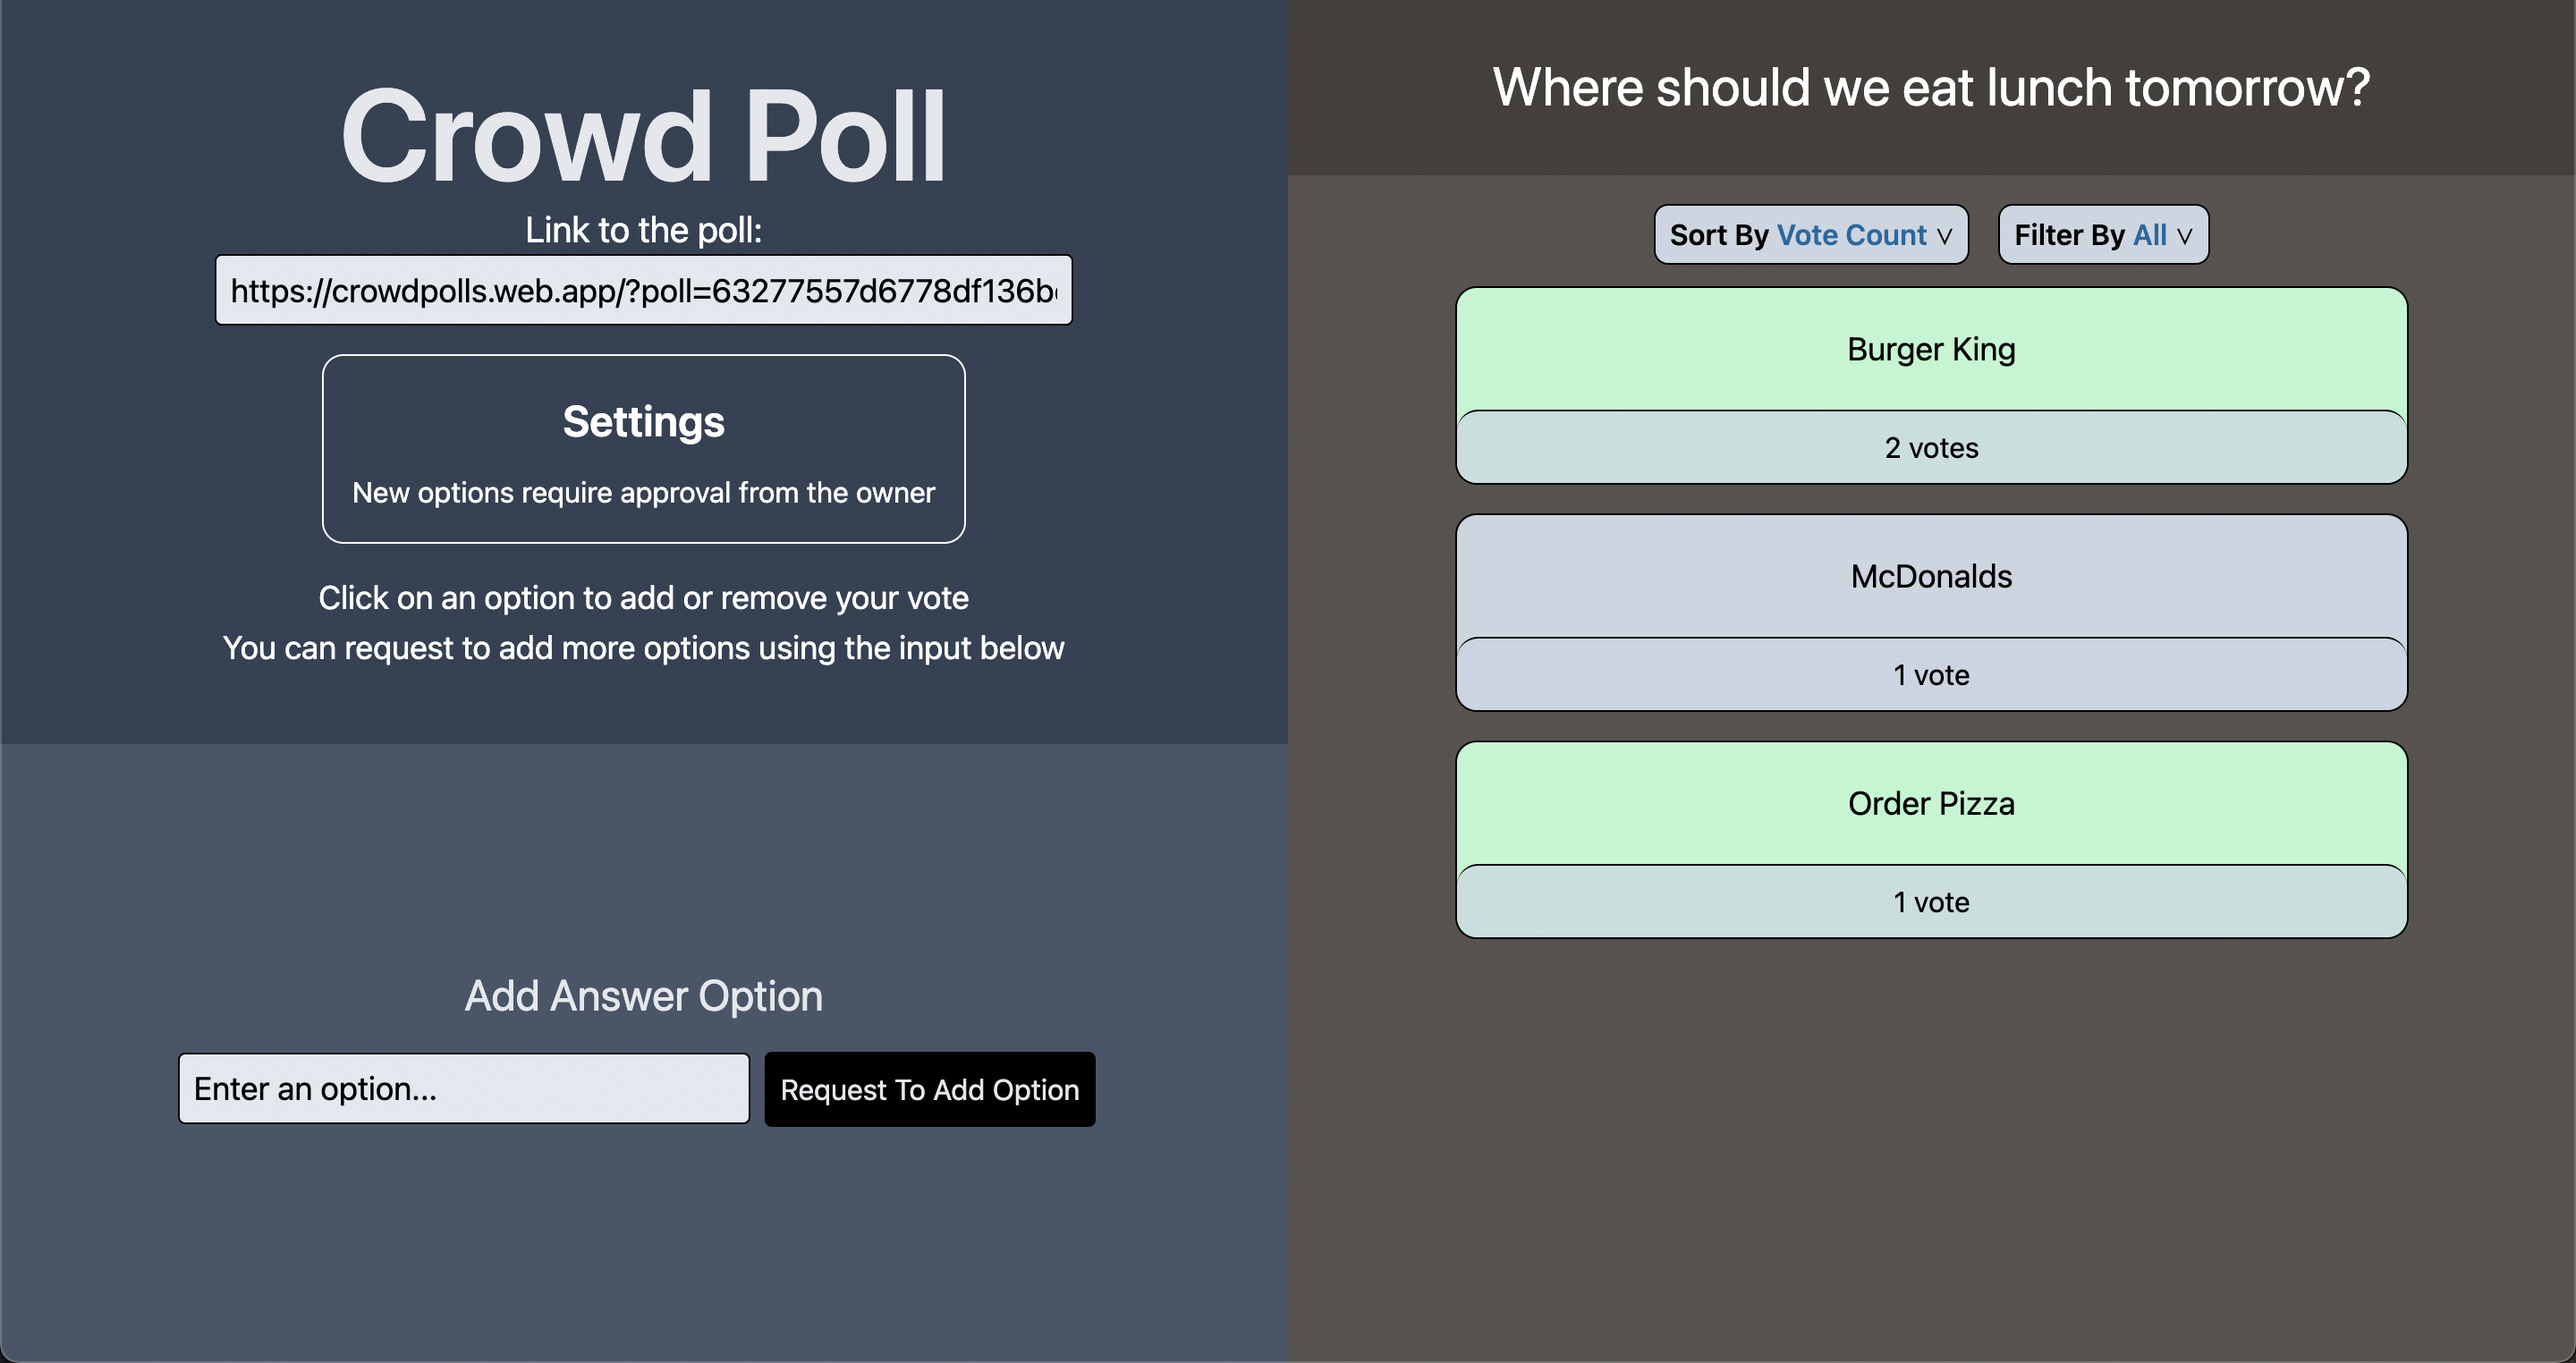
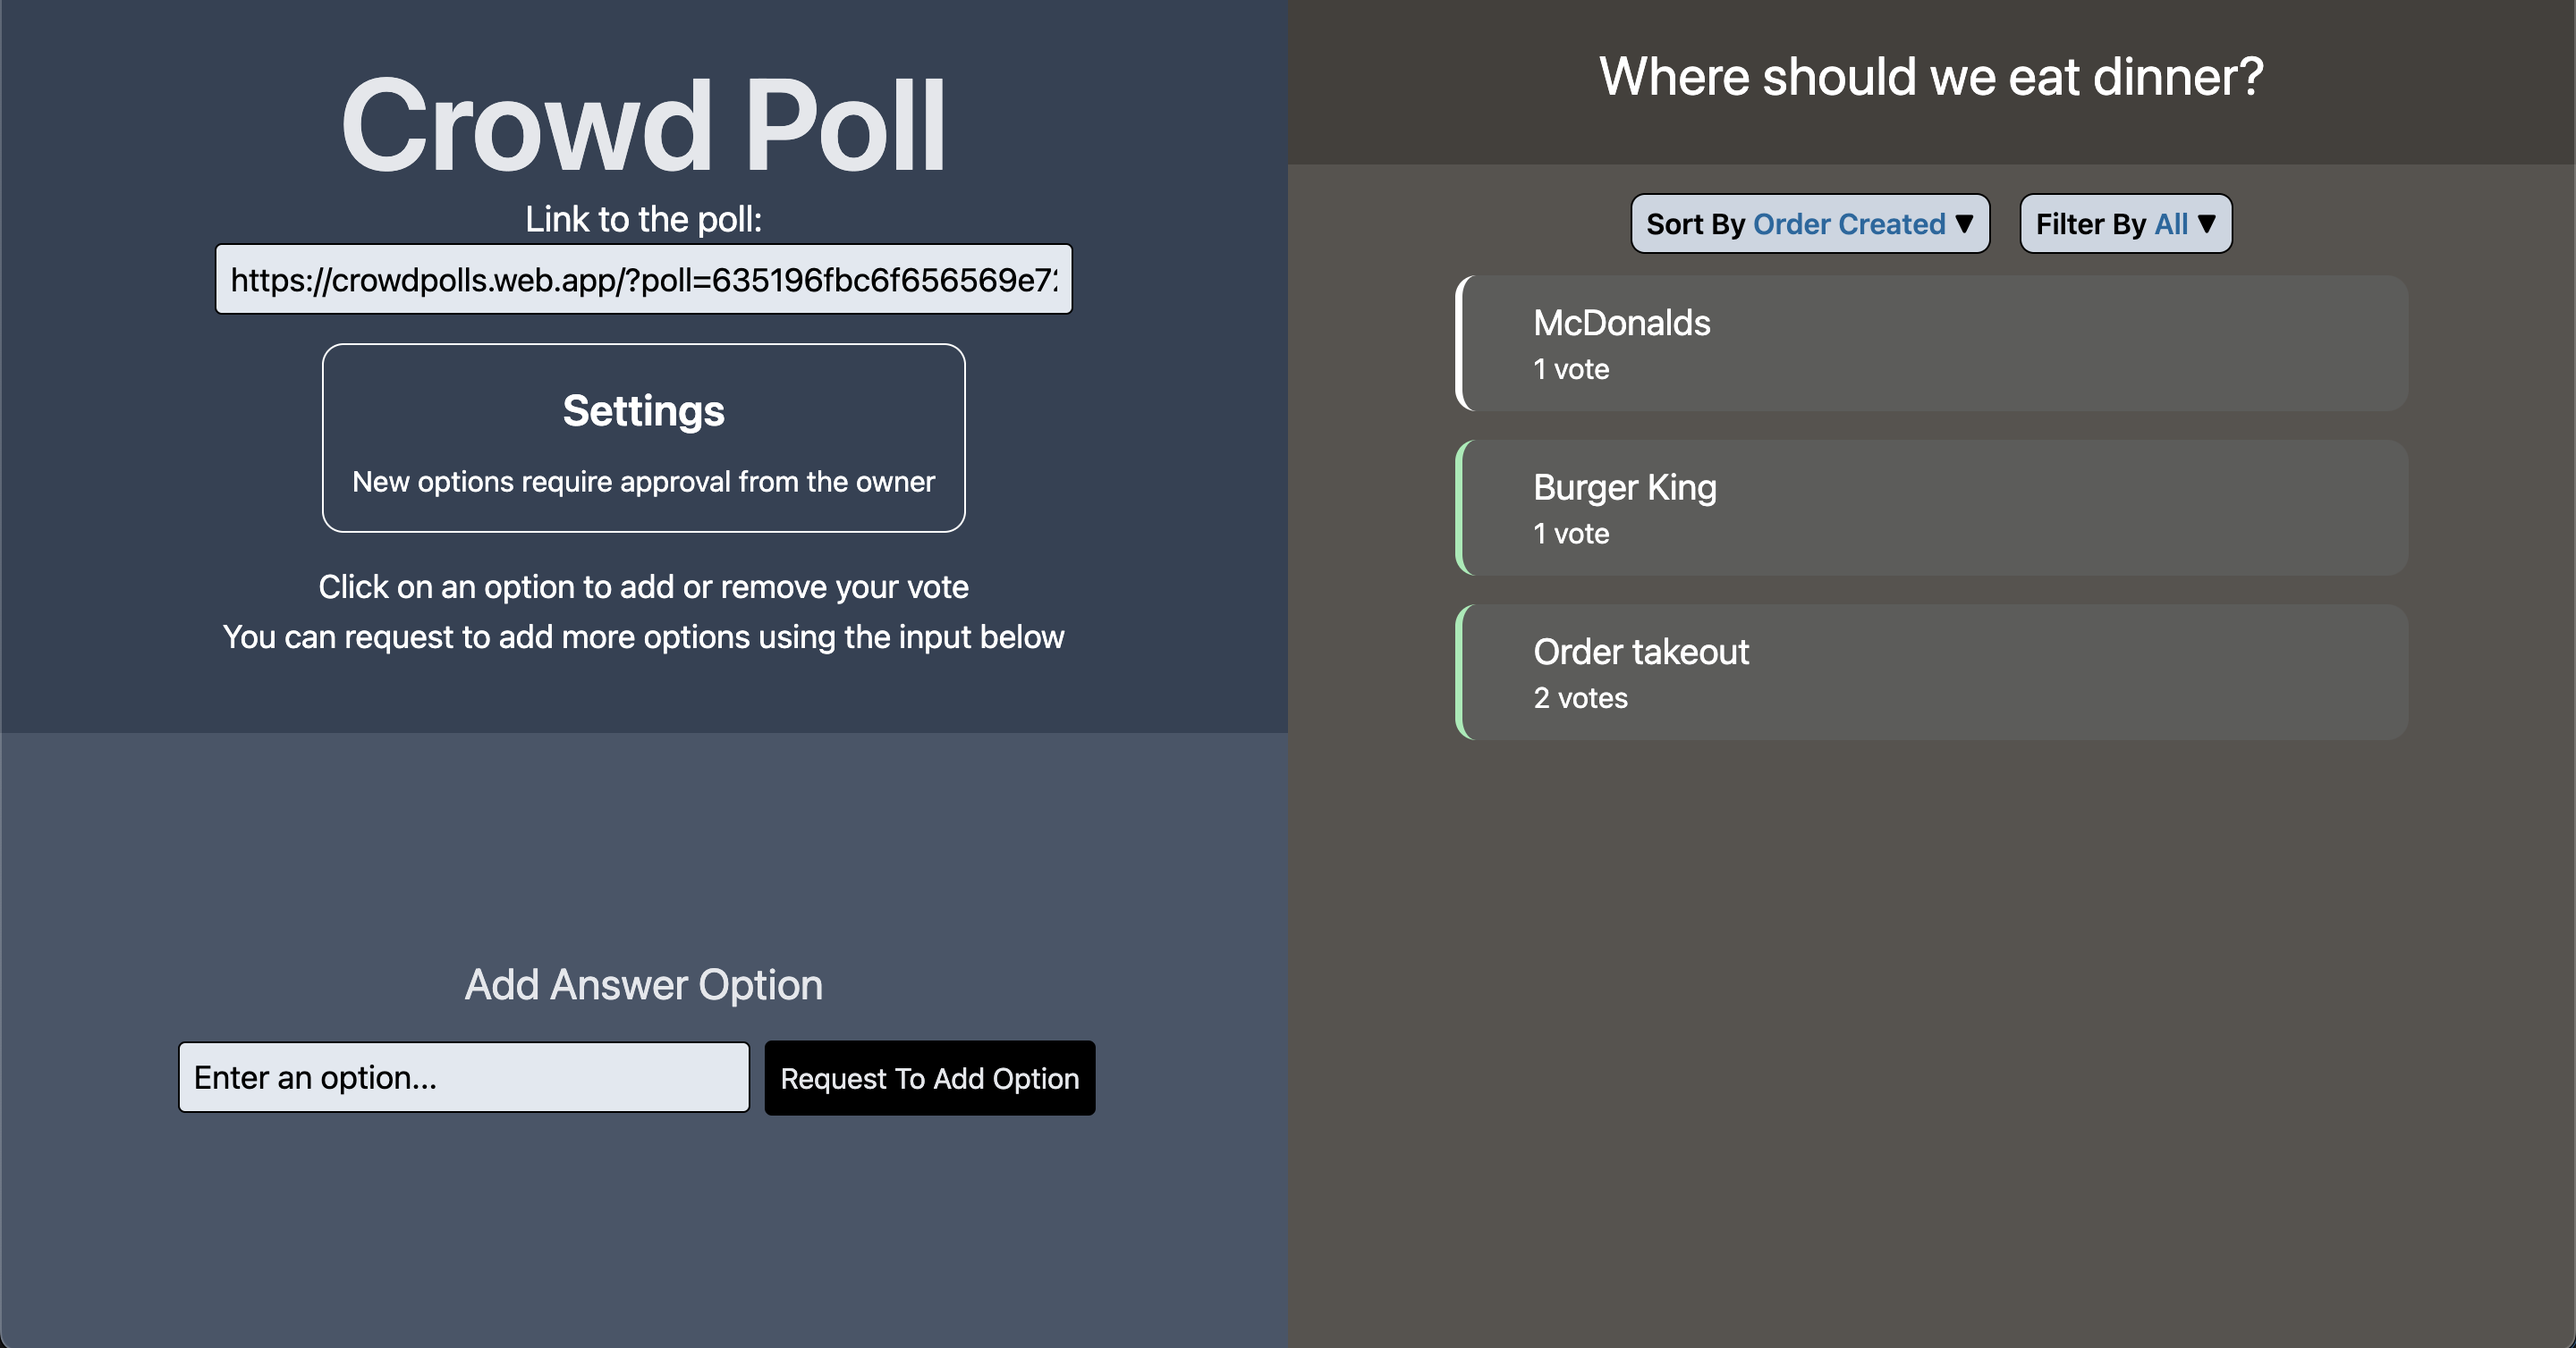
Improve option design

diff --git a/frontend/src/Option.js b/frontend/src/Option.js
@@ -28,9 +28,9 @@ function Option(props) {
             setVoting(true);
 
             await props.ws.send(JSON.stringify({
-                type: "vote", 
+                type: "vote",
                 pollId: props.pollId,
-                optionId: props.optionId, 
+                optionId: props.optionId,
                 userId: props.userId
             }));
 
@@ -51,22 +51,22 @@ function Option(props) {
     }
 
     const toggleSelection = (e) => {
-        setSelected(!selected)   
+        setSelected(!selected)
         props.toggleSelected(props.optionId)
     }
 
 
     if (!props.approved)
-        var color = "bg-red-100"
+        var color = "rgb(255, 0, 0)"
     else if (selected)
-        color = "bg-blue-200"
-    else if (voting) 
-        color = "bg-emerald-100"
+        color = "rgb(255 127 127)"
+    else if (voting)
+        color = "rgb(200 236 180)"
     else if (props.voted)
-        color = "bg-green-200"
+        color = "rgb(154 236 180)"
     else
-        color = "bg-slate-300";
-    
+        color = "rgb(255, 255, 255)";
+
     if (props.votes >= 0)
         var voteCount = (props.votes) + (props.votes === 1 ? " vote" : " votes");
     else
@@ -75,43 +75,59 @@ function Option(props) {
     const touchscreen = (('ontouchstart' in window) || (navigator.maxTouchPoints > 0) || (navigator.msMaxTouchPoints > 0));
 
 
-    return ((props.approved) ? 
-        <button onClick={castVote} onMouseEnter = {() => setShowBox(props.isOwner && true)} onMouseLeave = {() => setShowBox(false)} className={"w-5/6 mx-auto rounded-xl text-black border border-black mb-4 grid items-center " + color}>
-            
-            <div className="text-lg p-5 w-full relative">
+    if (props.approved)
+        return (<button
+            onClick={castVote}
+            onMouseEnter={() => setShowBox(props.isOwner && true)}
+            onMouseLeave={() => setShowBox(false)}
+            className={`w-5/6 mx-auto rounded-xl text-white border-l-4 mb-4 grid items-center bg-slate-400/10 py-3`}
+            style={{ borderColor: color }}
+        >
+
+            <div className="text-xl px-10 w-full relative text-left">
                 {props.optionTitle}
 
-                {showBox || selected || (props.isOwner && touchscreen) ? 
-                <input type = "checkbox" checked = {selected} className = "absolute top-2 left-2 text-sm p-2 border-black border bg-white w-4 h-4 rounded-xl" 
-                    onChange = {toggleSelection} onClick = {(e) => e.stopPropagation()}></input> 
-                : null}
+                {showBox || selected || (props.isOwner && touchscreen) ?
+                    <input type="checkbox" checked={selected} className="absolute top-2 left-2 text-sm w-4 h-4 rounded-xl"
+                        onChange={toggleSelection} onClick={(e) => e.stopPropagation()}></input>
+                    : null}
 
             </div>
 
-            <div className="grid-row bg-slate-300/75 border-t border-t-black w-full px-3 py-2 rounded-xl">
+            <div className="grid-row w-full px-10 rounded-xl text-left">
                 {voteCount}
             </div>
-            
-        </button>
-        :
-        <div className={"border w-5/6 mx-auto rounded-xl border-black mb-3 grid items-center " + color}>
-            <div className="text-lg p-3"> {props.optionTitle} </div>
-            <div className = "text-xl"> {"Pending Approval"} </div>
-            <div className = "text-sm mb-2"> {"(only you can see this option)"} </div>
 
-            <div>
-                <button onClick = {() => {approveDenyOption(false)}} className="inline border-t border-t-black border-r border-r-black bg-red-300 w-1/2 px-3 py-2 rounded-l-lg">
-                    {"Reject"}
-                </button>
+        </button>)
+    else
+        return (
 
-                <button onClick = {() => {approveDenyOption(true)}} className="inline border-t border-t-black  bg-emerald-300  w-1/2 px-3 py-2 rounded-r-lg">
-                    {"Approve"}
-                </button>   
+            <div className={`w-5/6 mx-auto rounded-xl text-white border-l-4 border-rose-300 mb-4 grid items-center bg-slate-400/10 py-3`}>
+
+                <div className="text-xl px-10 w-full relative text-left">
+                    {props.optionTitle}
+                </div>
+                <div className="px-10 w-full relative text-left text-sm">
+                    {"Pending Approval. Only you can see this option."}
+                </div>
+
+                <div className="grid-row px-10 rounded-xl text-left text-black text-sm">
+                    <button onClick={() => { approveDenyOption(true) }} className="inline border-t border-t-black  bg-emerald-100  w-1/2 px-3 py-2 rounded-l-lg">
+                        {"Approve"}
+                    </button>
+
+                    <button onClick={() => { approveDenyOption(false) }} className="inline border-t border-t-black border-l border-l-black bg-rose-100 w-1/2 px-3 py-2 rounded-r-lg">
+                        {"Reject"}
+                    </button>
+
+
+                </div>
+
             </div>
-        </div>
-    )
 
-    
+        )
+
+
 
 }
 

diff --git a/frontend/src/Welcome.js b/frontend/src/Welcome.js
@@ -150,7 +150,7 @@ function Welcome(props) {
 
 
             <div className="bg-stone-700 grid lg:h-screen items-center">
-                <form className="py-10" onSubmit={createPoll}>
+                <form className="mx-2 py-10" onSubmit={createPoll}>
                     <h1 className="mx-auto text-xl lg:text-2xl text-gray-200 select-none px-4 mb-2">Create New Poll</h1>
                     <input ref={titleInput} className="h-10 mx-2 w-3/4 lg:w-1/2 rounded text-black text-lg placeholder:text-black bg-slate-200 px-2 border border-black" placeholder="Enter a title..." />
                     <button type="submit" className="bg-black text-gray-200 border border-black p-2 m-2 rounded">Create Poll</button>
